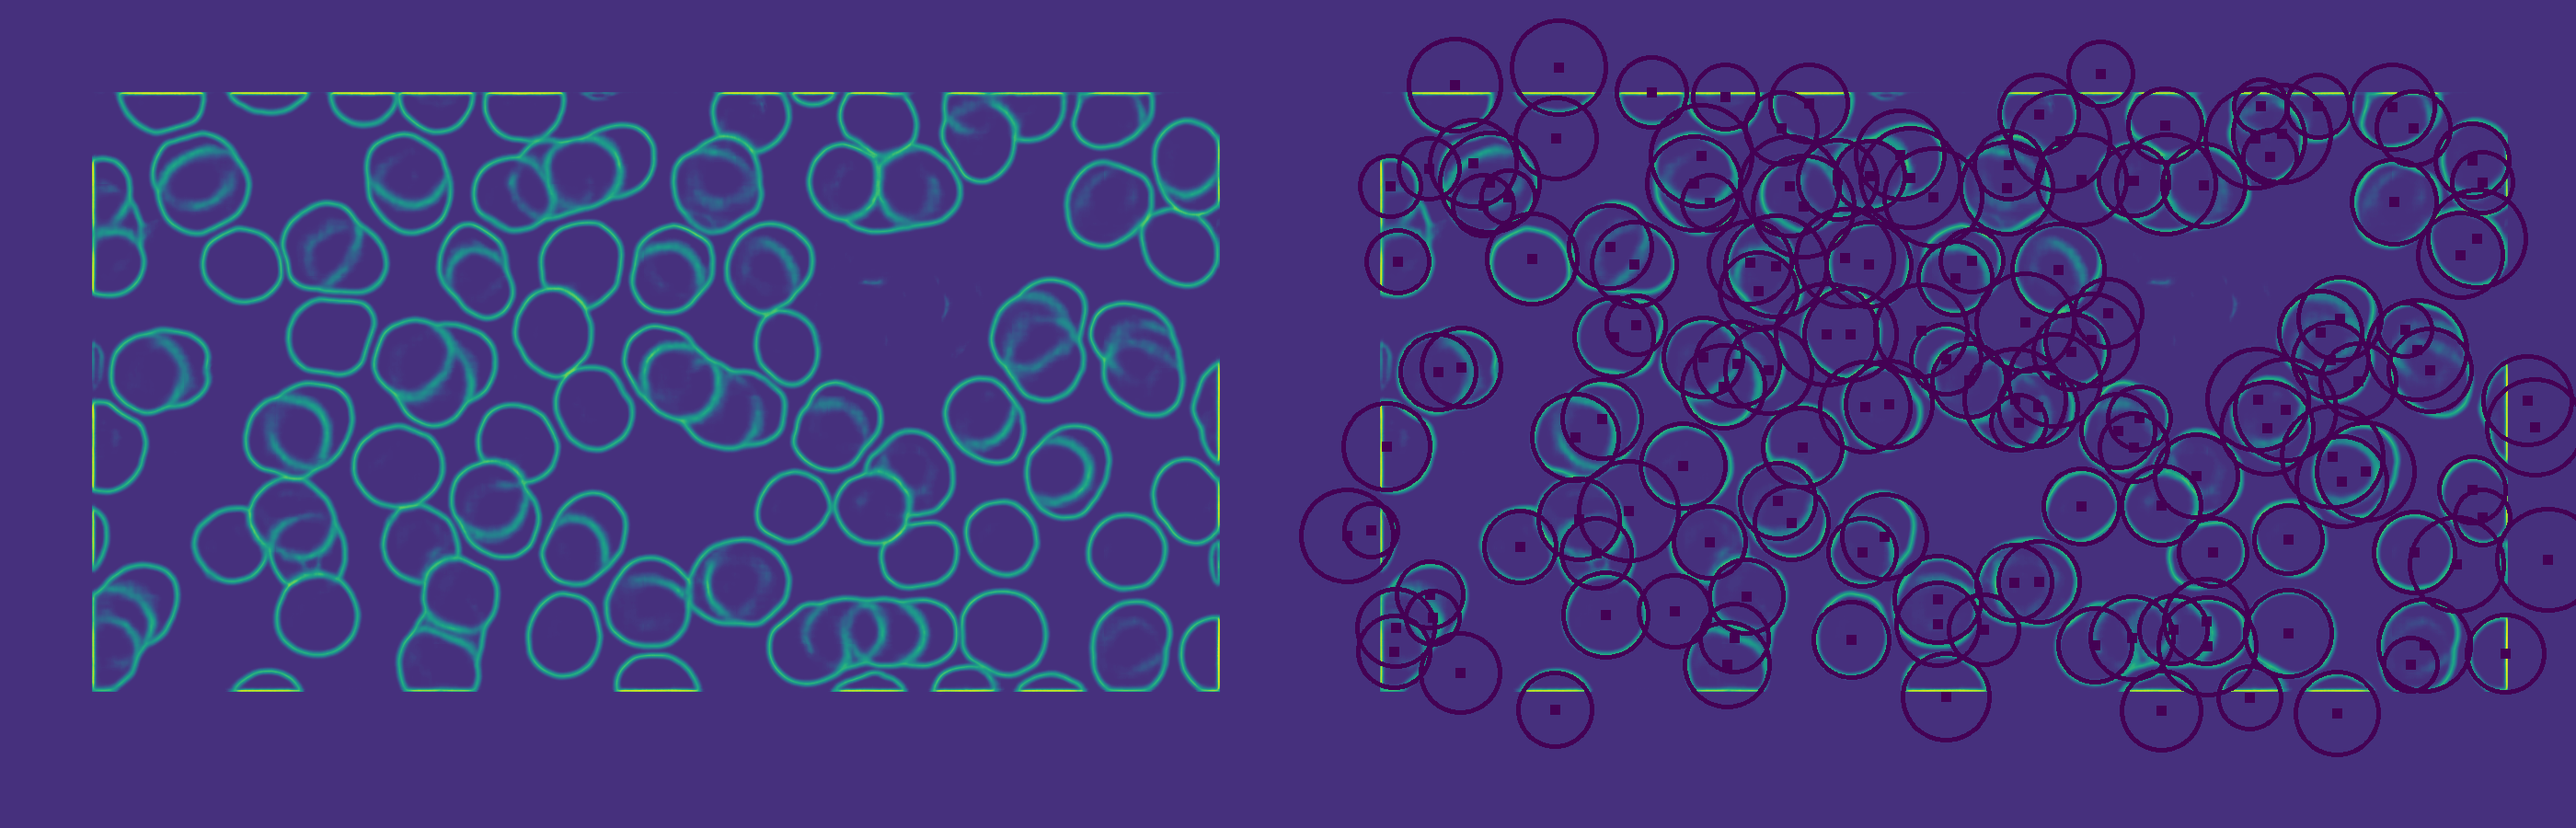
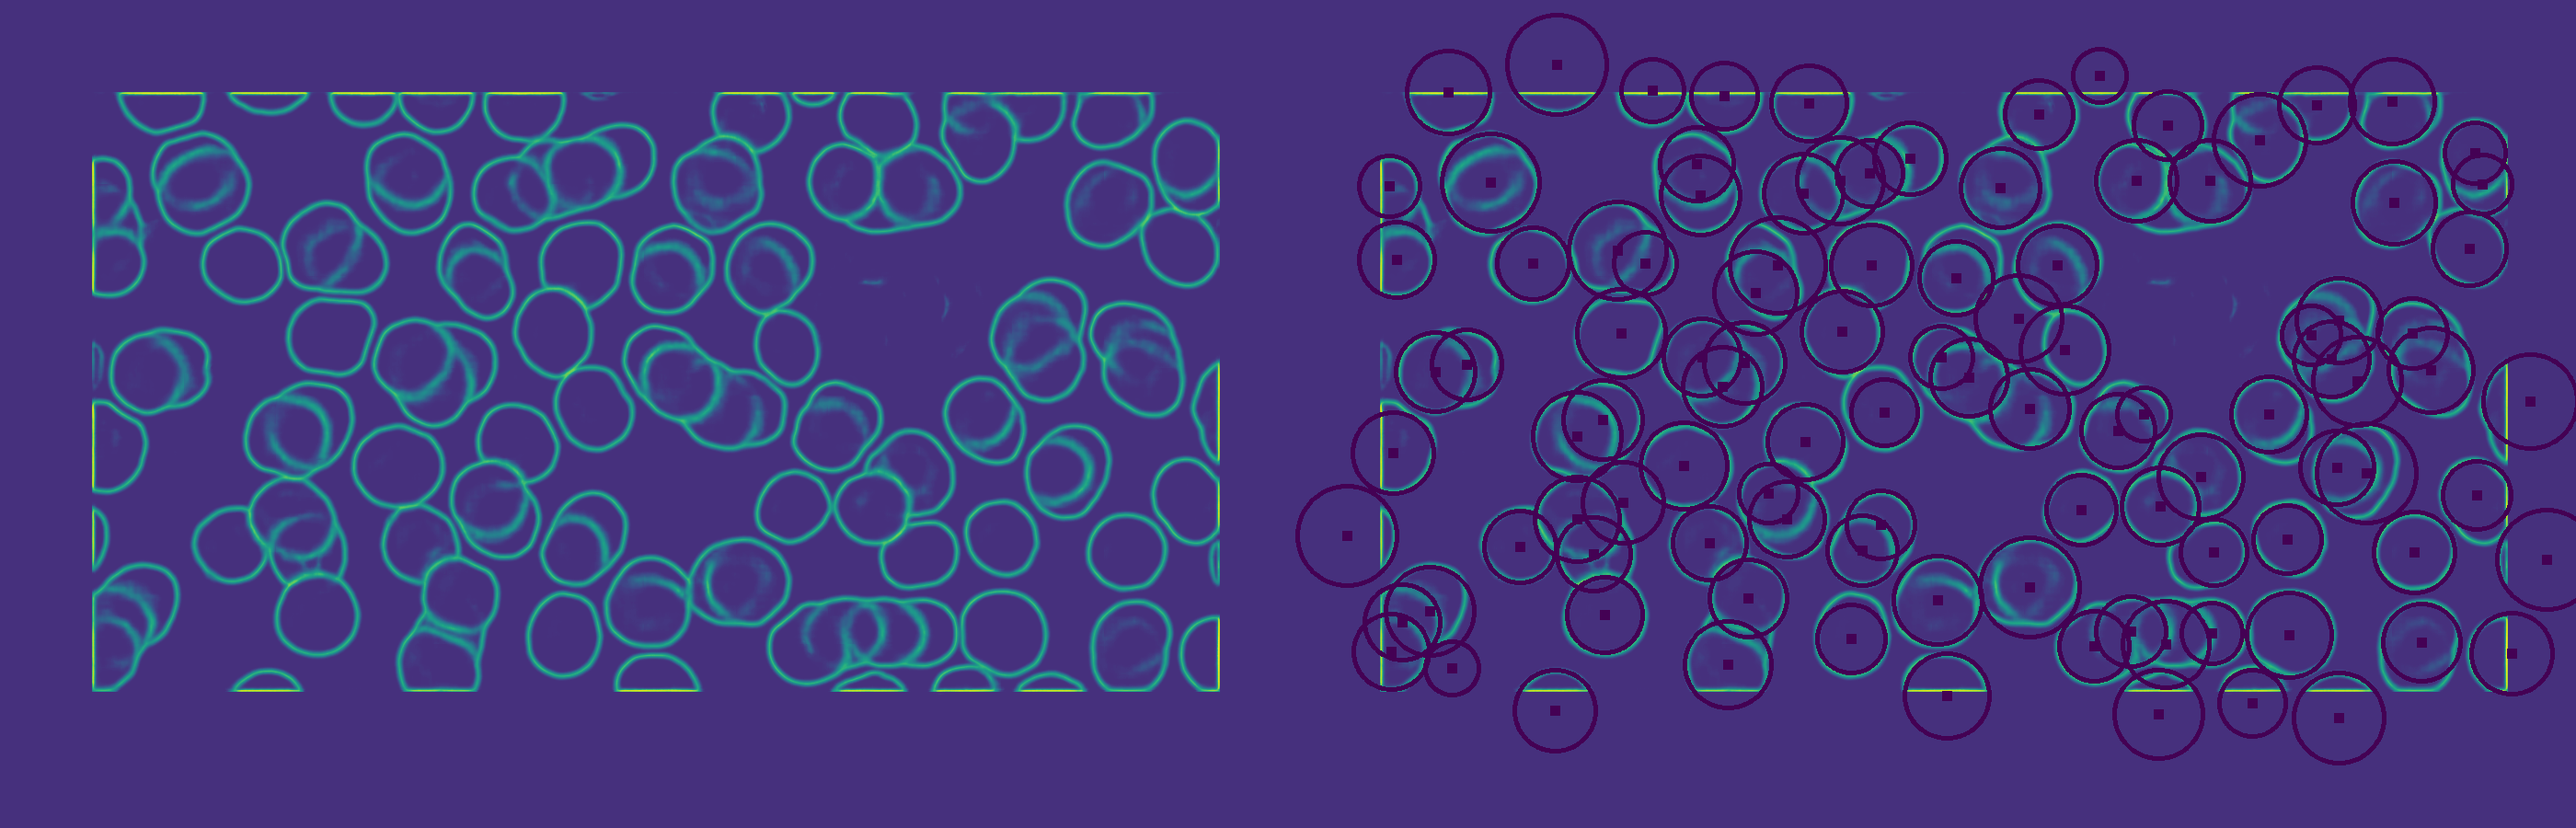
Updated hough tranform parameters!

Changed region(s): [[0.4971, 0.0, 1.0, 0.9333], [0.7457, 0.8711, 0.7768, 0.9022]]

diff --git a/src/run.py b/src/run.py
@@ -73,6 +73,10 @@ def predict(image = glob.glob('data/test/Im037_0.jpg'),
     new_mask = concat(new_mask_chips)
     new_edge = concat(new_edge_chips)
 
+    # save predicted mask and edge
+    plt.imsave('output/mask.png', new_mask)
+    plt.imsave('output/edge.png', new_edge)
+
     # organize results into one figure
     fig = plt.figure(figsize=(25, 12), dpi=80)
     fig.subplots_adjust(hspace=0.1, wspace=0.1)
@@ -134,6 +138,7 @@ def threshold(img = 'output/edge.png'):
     plt.imsave('output/threshold_edge.png', img)
 
 
+# count how many cells from the predicted edges
 def count_circles(img = 'output/edge.png'):
     if not os.path.exists(f'{img}'):
         print('Image does not exist!')
@@ -143,7 +148,7 @@ def count_circles(img = 'output/edge.png'):
 
     # convert to grayscale and apply Circle Hough Transform (CHT)
     img = cv2.cvtColor(img, cv2.COLOR_BGR2GRAY)
-    circles = cv2.HoughCircles(img, cv2.HOUGH_GRADIENT, 1.1871, minDist=25, maxRadius=56, minRadius=28, param1=30, param2=20)
+    circles = cv2.HoughCircles(img, cv2.HOUGH_GRADIENT, 1, minDist=33, maxRadius=55, minRadius=28, param1=30, param2=20)
     output = img.copy()
 
     # ensure at least some circles were found
@@ -164,6 +169,6 @@ def count_circles(img = 'output/edge.png'):
 
 
 if __name__ == '__main__':
-    # predict()
-    # threshold()
+    predict()
+    threshold()
     count_circles()
